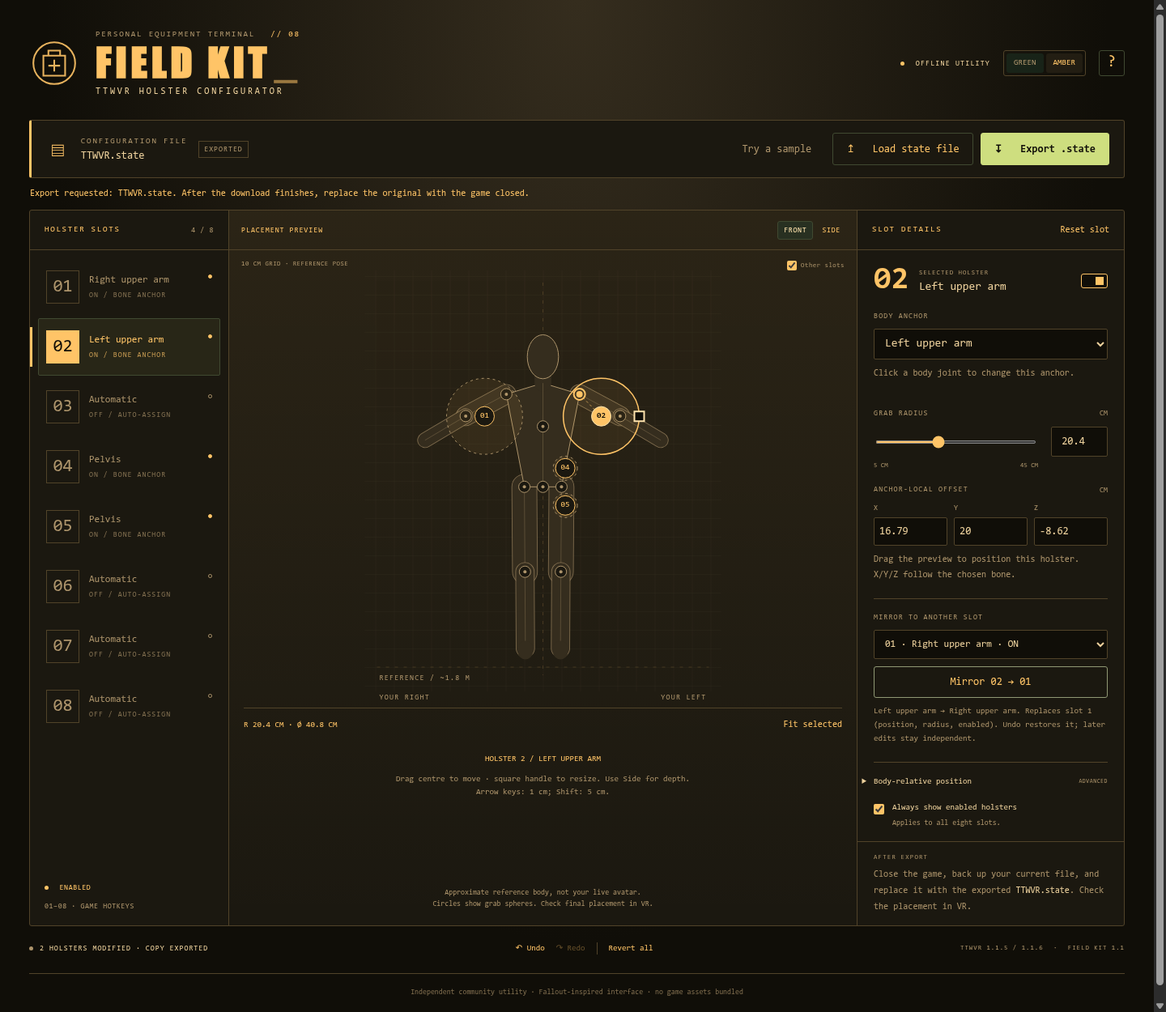
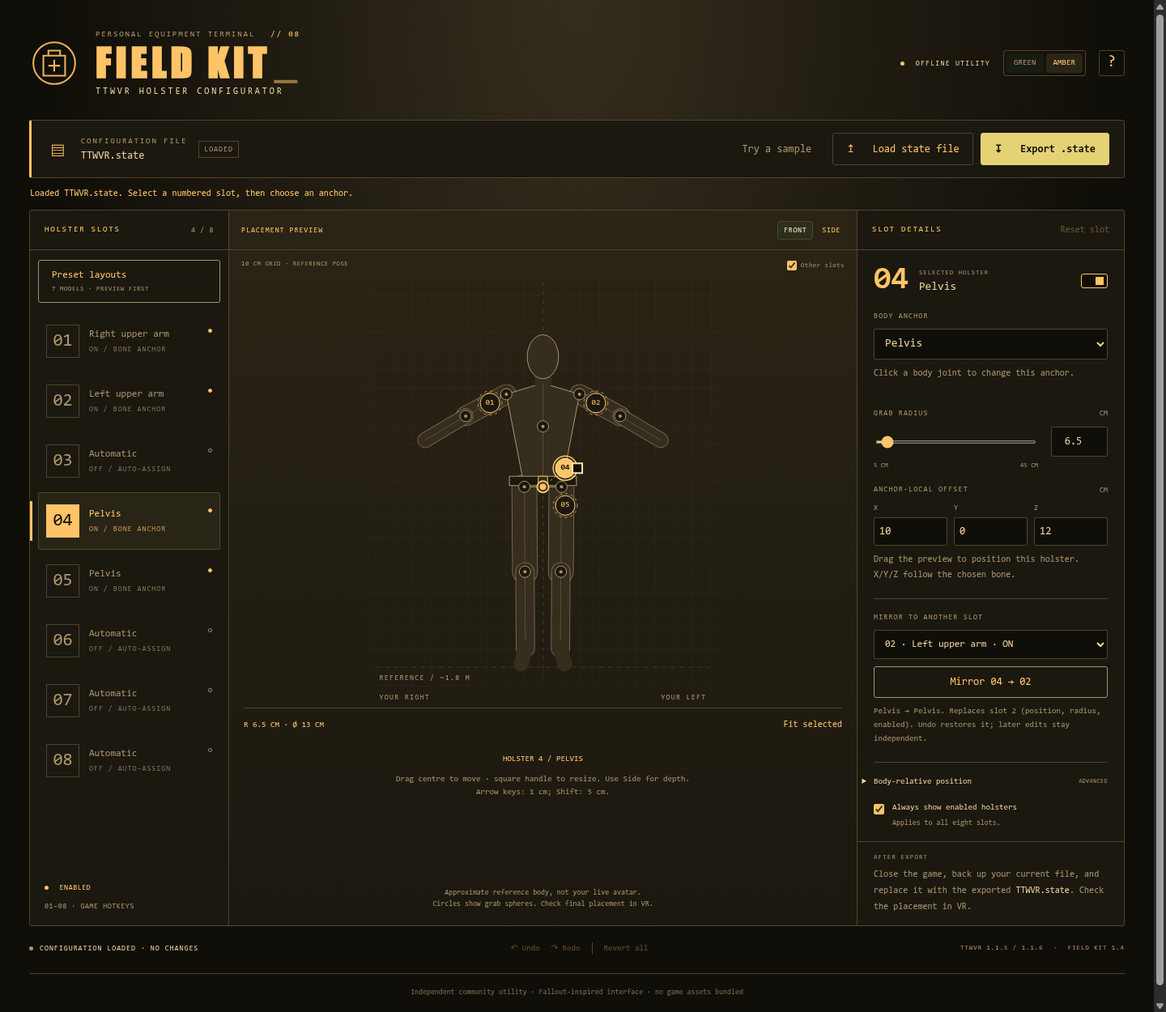
Correct holster front/back mapping and repair existing body layouts

diff --git a/tools/holster-editor/index.html b/tools/holster-editor/index.html
@@ -94,7 +94,7 @@ select{font-size:14px}.slot-label{font-size:12px}.coordinate-row input{font-size
       <div class="apply-note"><span class="eyebrow">AFTER EXPORT</span><p>Close the game, back up your current file, and replace it with the exported <b>TTWVR.state</b>. Check the placement in VR.</p></div>
     </section>
   </main>
-  <footer class="status-bar"><div><span class="status-light" id="status-light"></span><span id="change-status">NO FILE LOADED</span></div><div class="history"><button type="button" id="undo" disabled>↶ Undo</button><button type="button" id="redo" disabled>↷ Redo</button><span class="separator"></span><button type="button" id="revert" disabled>Revert all</button></div><span class="footer-version">TTWVR 1.1.5 / 1.1.6 <span>·</span> FIELD KIT 1.3</span></footer>
+  <footer class="status-bar"><div><span class="status-light" id="status-light"></span><span id="change-status">NO FILE LOADED</span></div><div class="history"><button type="button" id="undo" disabled>↶ Undo</button><button type="button" id="redo" disabled>↷ Redo</button><span class="separator"></span><button type="button" id="revert" disabled>Revert all</button></div><span class="footer-version">TTWVR 1.1.5 / 1.1.6 <span>·</span> FIELD KIT 1.4</span></footer>
   <p class="bottom-note">Independent community utility · Fallout-inspired interface · no game assets bundled</p>
 </div>
 <dialog id="presets" aria-labelledby="presets-title">
@@ -113,7 +113,7 @@ select{font-size:14px}.slot-label{font-size:12px}.coordinate-row input{font-size
   <p class="preset-caveat">Reference pose only: spacing changes as you move. These are starting layouts, not headset-tested fits. Fine-tune with your equipment and wrist Pip-Boy in VR.</p>
   <div class="preset-apply-row"><p id="preset-impact" aria-live="polite"></p><button type="button" id="apply-preset" class="primary" disabled>Apply layout</button></div>
 </dialog>
-<dialog id="instructions"><div class="dialog-heading"><p class="eyebrow">FIELD MANUAL</p><button type="button" id="close-help" class="icon-button" aria-label="Close instructions">×</button></div><h2>Configure. Export. Equip.</h2><ol><li><b>Quit Fallout and your mod manager.</b> This tool edits a copy; the game writes its state when it closes.</li><li><b>Load TTWVR.state.</b> It contains the numbered holsters and their anchors. A savegame or TTWVR.ini is a different file.</li><li><b>Choose a slot and an anchor.</b> Numbers match the game’s 1–8 hotkeys. Drag its numbered centre to position it; drag the square handle to resize its grab sphere. Use Front for left/right and Side for depth. Both views adjust height. Arrow keys move 1 cm (Shift: 5 cm). Numeric controls remain available.</li><li><b>Export the file.</b> Keep a backup of the original and replace it with the downloaded copy. Its filename must be <code>TTWVR.state</code>, without a browser-added “(1)”.</li><li><b>Launch the game and check the fit.</b> The preview uses an approximate reference body and pose. Fine placement depends on your avatar and calibration.</li></ol><h3>Start from a preset</h3><p><b>Preset layouts</b> offers seven belt, vest and holster layouts, from four to eight enabled holsters. Preview both views, choose right/left pair order and optional extra forward reach, then apply. Utility rig puts one forearm target opposite the selected Pip-Boy arm; this remains independent of pair order. One Undo restores your previous layout. Slots outside the chosen layout are disabled while their positions are retained. Visibility, calibration and other state sections stay as loaded. Export and check your reach in VR.</p><h3>Mirror a holster</h3><p>Choose a different destination slot under <b>Mirror to another slot</b>, then press the mirror button. Right upper arm becomes left upper arm, for example, with the matching local offset and grab radius. The destination is replaced in one undoable action. Subsequent edits are independent; this does not link the slots. Automatic slots mirror their saved body-relative position but have no bone preview until you choose an anchor.</p><h3>Where is the file?</h3><p><b>Windows</b> — your Documents folder, which may be redirected to OneDrive:</p><code class="path">My Games\FalloutNV\TTWVR.state</code><p><b>Linux / Proton</b> — inside the prefix used by your VR profile:</p><code class="path">drive_c/users/steamuser/Documents/My Games/FalloutNV/TTWVR.state</code><p>TTWVR stores this configuration in New Vegas’s <code>FalloutNV</code> folder. Place a holster in VR and quit once if the holster sections have not been created yet.</p><h3>What gets edited?</h3><p>Only holster records in <code>[SavedSlots]</code> and <code>[SavedSlotsOn]</code>. Other sections, encoding and line endings are preserved. This does not assign weapons to hotkeys or change a savegame.</p><p><b>Automatic</b> removes an explicit bone binding. TTWVR then chooses a nearby bone from the saved body-relative position. New explicit bindings start at a zero local offset; adjust the offset or finish placement in VR.</p><p class="field-help">Runs entirely offline. No installation, uploads, runtime libraries or network connection required. Original tool code: GPL-3.0-only.</p></dialog>
+<dialog id="instructions"><div class="dialog-heading"><p class="eyebrow">FIELD MANUAL</p><button type="button" id="close-help" class="icon-button" aria-label="Close instructions">×</button></div><h2>Configure. Export. Equip.</h2><ol><li><b>Quit Fallout and your mod manager.</b> This tool edits a copy; the game writes its state when it closes.</li><li><b>Load TTWVR.state.</b> It contains the numbered holsters and their anchors. A savegame or TTWVR.ini is a different file.</li><li><b>Choose a slot and an anchor.</b> Numbers match the game’s 1–8 hotkeys. Drag its numbered centre to position it; drag the square handle to resize its grab sphere. Use Front for left/right and Side for depth. Both views adjust height. Arrow keys move 1 cm (Shift: 5 cm). Numeric controls remain available.</li><li><b>Export the file.</b> Keep a backup of the original and replace it with the downloaded copy. Its filename must be <code>TTWVR.state</code>, without a browser-added “(1)”.</li><li><b>Launch the game and check the fit.</b> The preview uses an approximate reference body and pose. Fine placement depends on your avatar and calibration.</li></ol><h3>Start from a preset</h3><p><b>Preset layouts</b> offers seven belt, vest and holster layouts, from four to eight enabled holsters. Preview both views, choose right/left pair order and optional extra forward reach, then apply. Utility rig puts one forearm target opposite the selected Pip-Boy arm; this remains independent of pair order. One Undo restores your previous layout. Slots outside the chosen layout are disabled while their positions are retained. Visibility, calibration and other state sections stay as loaded. Export and check your reach in VR.</p><h3>Body holsters behind you?</h3><p>Field Kit 1.1–1.3 reversed front and back in the preview. If you exported body placements with those versions, this moves centres behind the reference body to the front. It affects pelvis, chest and leg anchors, including disabled slots; arms and Automatic slots stay unchanged. Intentionally rear-mounted body holsters would also move. Review the Side view, then export. One Undo restores the layout. Loading a file never repairs it automatically.</p><button type="button" id="repair-body" disabled>Repair old body placement</button><h3>Mirror a holster</h3><p>Choose a different destination slot under <b>Mirror to another slot</b>, then press the mirror button. Right upper arm becomes left upper arm, for example, with the matching local offset and grab radius. The destination is replaced in one undoable action. Subsequent edits are independent; this does not link the slots. Automatic slots mirror their saved body-relative position but have no bone preview until you choose an anchor.</p><h3>Where is the file?</h3><p><b>Windows</b> — your Documents folder, which may be redirected to OneDrive:</p><code class="path">My Games\FalloutNV\TTWVR.state</code><p><b>Linux / Proton</b> — inside the prefix used by your VR profile:</p><code class="path">drive_c/users/steamuser/Documents/My Games/FalloutNV/TTWVR.state</code><p>TTWVR stores this configuration in New Vegas’s <code>FalloutNV</code> folder. Place a holster in VR and quit once if the holster sections have not been created yet.</p><h3>What gets edited?</h3><p>Only holster records in <code>[SavedSlots]</code> and <code>[SavedSlotsOn]</code>. Other sections, encoding and line endings are preserved. This does not assign weapons to hotkeys or change a savegame.</p><p><b>Automatic</b> removes an explicit bone binding. TTWVR then chooses a nearby bone from the saved body-relative position. New explicit bindings start at a zero local offset; adjust the offset or finish placement in VR.</p><p class="field-help">Runs entirely offline. No installation, uploads, runtime libraries or network connection required. Original tool code: GPL-3.0-only.</p></dialog>
 <script>/* SPDX-License-Identifier: GPL-3.0-only */
 /* Lossless TTWVR 1.1.5/1.1.6 state editor. No filesystem or network access. */
 (function (root) {
@@ -318,7 +318,7 @@ select{font-size:14px}.slot-label{font-size:12px}.coordinate-row input{font-size
 </script>
 <script>/* SPDX-License-Identifier: GPL-3.0-only */
 // Reference coordinates: right, back, up (metres). Orthographic views, no perspective.
-// Frame orientation checked against TTWVR 1.1.6's supplied skeleton. See FORMAT.md.
+// Source skeleton is right, FORWARD, up; convert its world basis below. See FORMAT.md.
 (function (root, factory) {
   const api = factory();
   if (typeof module === 'object' && module.exports) module.exports = api;
@@ -451,6 +451,7 @@ select{font-size:14px}.slot-label{font-size:12px}.coordinate-row input{font-size
     -0.0032341,
     1.2184703
   ],
+  "right_toe": [0.1168718, 0.1371308, 0.0169413],
   "right_foot": [
     0.0942197,
     -0.0290597,
@@ -475,8 +476,17 @@ select{font-size:14px}.slot-label{font-size:12px}.coordinate-row input{font-size
       frames[opposite(key)] = {origin: reflect(f.origin), rotation: f.rotation.map((v,i) => v * (i < 3 ? -1 : 1) * (i % 3 === 2 ? -1 : 1))};
     }
   }
-  for (const [key, f] of Object.entries(frames)) joints[key] = f.origin;
-  for (const key of ['right_hand', 'right_foot']) joints[opposite(key)] = reflect(joints[key]);
+  // NIF +Y points toward the toes. The UI uses +Y for BACK, so reflect the
+  // world basis AFTER orthonormalizing the source frames. This changes their
+  // determinant, not their inverse (transpose). Never reflect bone-local Y.
+  const toPreview = p => [p[0], -p[1], p[2]];
+  for (const [key, p] of Object.entries(joints)) joints[key] = toPreview(p);
+  for (const [key, f] of Object.entries(frames)) {
+    f.origin = toPreview(f.origin);
+    f.rotation = f.rotation.map((v, i) => i >= 3 && i < 6 ? -v : v);
+    joints[key] = f.origin;
+  }
+  for (const key of ['right_hand', 'right_foot', 'right_toe']) joints[opposite(key)] = reflect(joints[key]);
   function world(slot) {
     const f = frames[slot.anchor]; if (!f) return null;
     return multiply(f.rotation, slot.offset).map((v,i) => v + f.origin[i]);
@@ -496,9 +506,18 @@ select{font-size:14px}.slot-label{font-size:12px}.coordinate-row input{font-size
     // Bilateral bone frames mirror local Z, NOT local X. Central anchors also use Z laterally.
     return {...slot, id: targetId, anchor: opposite(slot.anchor), offset: slot.anchor === 'auto' ? [0,0,0] : [slot.offset[0],slot.offset[1],-slot.offset[2]], position: [slot.position[0],-slot.position[1],slot.position[2]]};
   }
+  function repairBodyPlacement(slot) {
+    // Explicit recovery for pre-1.4 editor exports. Leave arms and Automatic
+    // untouched. Only move centres behind the reference body's centre plane;
+    // repeating this operation therefore cannot send a repaired slot back.
+    if (!['pelvis','chest','left_thigh','right_thigh','left_shin','right_shin'].includes(slot.anchor)) return slot;
+    const p = world(slot);
+    if (p[1] <= 1e-6) return slot;
+    return {...slot, offset: local(slot.anchor, [p[0], -p[1], p[2]])};
+  }
   const SCALE = 230;
   const project = (p, view = 'front') => [220 - p[view === 'side' ? 1 : 0] * SCALE, 490 - p[2] * SCALE];
-  return {frames, joints, world, local, move, mirror, opposite, reflect, project, SCALE};
+  return {frames, joints, world, local, move, mirror, opposite, reflect, repairBodyPlacement, project, SCALE};
 });
 </script>
 <script>/* SPDX-License-Identifier: GPL-3.0-only */
@@ -668,6 +687,9 @@ select{font-size:14px}.slot-label{font-size:12px}.coordinate-row input{font-size
     const count = changedCount(), changed = model && !H.same(model, doc.original);
     $('export').disabled = !doc || demoMode || !!errors.size;
     $('mirror-slot').disabled = !doc || !!errors.size;
+    const repairCount = model?.slots.filter(s => G.repairBodyPlacement(s) !== s).length || 0;
+    $('repair-body').disabled = !repairCount || !!errors.size;
+    $('repair-body').textContent = `Repair old body placement${repairCount ? ` (${repairCount} slots)` : ''}`;
     $('export').title = demoMode ? 'Load your own state file to export changes' : 'Download a copy of TTWVR.state';
     $('undo').disabled = historyIndex <= 0; $('redo').disabled = historyIndex >= history.length - 1;
     $('revert').disabled = !changed && !errors.size;
@@ -748,7 +770,7 @@ select{font-size:14px}.slot-label{font-size:12px}.coordinate-row input{font-size
       limb(`${side}_shin`,`${side}_foot`,.095);
       limb(`${side}_upper_arm`,`${side}_forearm`,.10);
       limb(`${side}_forearm`,`${side}_hand`,.075);
-      const foot = j[`${side}_foot`]; path([foot,[foot[0],foot[1]-.12,foot[2]-.02]],.08,'body-limb');
+      path([j[`${side}_foot`],j[`${side}_toe`]],.08,'body-limb');
     }
     if (projection === 'front') {
       const torso = ['right_upper_arm','chest','left_upper_arm','left_thigh','pelvis','right_thigh'].map(k=>j[k]);
@@ -991,6 +1013,13 @@ select{font-size:14px}.slot-label{font-size:12px}.coordinate-row input{font-size
     try { localStorage.setItem('ttwvr-holster-theme', color); } catch { /* File URLs may disallow storage. */ }
   });
   try { if (localStorage.getItem('ttwvr-holster-theme') === 'amber') $('amber').click(); } catch { /* optional preference */ }
+  $('repair-body').addEventListener('click', () => {
+    if (!doc || errors.size) return;
+    let count = 0;
+    commit(m => { m.slots = m.slots.map(s => { const fixed = G.repairBodyPlacement(s); if (fixed !== s) count++; return fixed; }); });
+    $('instructions').close(); $('view-side').click();
+    notify(`Moved ${count} body holster${count === 1 ? '' : 's'} from behind to in front of the reference body. Arm placements are unchanged. Review, then export; Undo restores the layout.`, 'success');
+  });
   $('help').addEventListener('click', () => $('instructions').showModal());
   $('close-help').addEventListener('click', () => $('instructions').close());
   $('instructions').addEventListener('click', e => { if (e.target === $('instructions')) {

diff --git a/tools/holster-editor/src/shell.html b/tools/holster-editor/src/shell.html
@@ -69,7 +69,7 @@
       <div class="apply-note"><span class="eyebrow">AFTER EXPORT</span><p>Close the game, back up your current file, and replace it with the exported <b>TTWVR.state</b>. Check the placement in VR.</p></div>
     </section>
   </main>
-  <footer class="status-bar"><div><span class="status-light" id="status-light"></span><span id="change-status">NO FILE LOADED</span></div><div class="history"><button type="button" id="undo" disabled>↶ Undo</button><button type="button" id="redo" disabled>↷ Redo</button><span class="separator"></span><button type="button" id="revert" disabled>Revert all</button></div><span class="footer-version">TTWVR 1.1.5 / 1.1.6 <span>·</span> FIELD KIT 1.3</span></footer>
+  <footer class="status-bar"><div><span class="status-light" id="status-light"></span><span id="change-status">NO FILE LOADED</span></div><div class="history"><button type="button" id="undo" disabled>↶ Undo</button><button type="button" id="redo" disabled>↷ Redo</button><span class="separator"></span><button type="button" id="revert" disabled>Revert all</button></div><span class="footer-version">TTWVR 1.1.5 / 1.1.6 <span>·</span> FIELD KIT 1.4</span></footer>
   <p class="bottom-note">Independent community utility · Fallout-inspired interface · no game assets bundled</p>
 </div>
 <dialog id="presets" aria-labelledby="presets-title">
@@ -88,7 +88,7 @@
   <p class="preset-caveat">Reference pose only: spacing changes as you move. These are starting layouts, not headset-tested fits. Fine-tune with your equipment and wrist Pip-Boy in VR.</p>
   <div class="preset-apply-row"><p id="preset-impact" aria-live="polite"></p><button type="button" id="apply-preset" class="primary" disabled>Apply layout</button></div>
 </dialog>
-<dialog id="instructions"><div class="dialog-heading"><p class="eyebrow">FIELD MANUAL</p><button type="button" id="close-help" class="icon-button" aria-label="Close instructions">×</button></div><h2>Configure. Export. Equip.</h2><ol><li><b>Quit Fallout and your mod manager.</b> This tool edits a copy; the game writes its state when it closes.</li><li><b>Load TTWVR.state.</b> It contains the numbered holsters and their anchors. A savegame or TTWVR.ini is a different file.</li><li><b>Choose a slot and an anchor.</b> Numbers match the game’s 1–8 hotkeys. Drag its numbered centre to position it; drag the square handle to resize its grab sphere. Use Front for left/right and Side for depth. Both views adjust height. Arrow keys move 1 cm (Shift: 5 cm). Numeric controls remain available.</li><li><b>Export the file.</b> Keep a backup of the original and replace it with the downloaded copy. Its filename must be <code>TTWVR.state</code>, without a browser-added “(1)”.</li><li><b>Launch the game and check the fit.</b> The preview uses an approximate reference body and pose. Fine placement depends on your avatar and calibration.</li></ol><h3>Start from a preset</h3><p><b>Preset layouts</b> offers seven belt, vest and holster layouts, from four to eight enabled holsters. Preview both views, choose right/left pair order and optional extra forward reach, then apply. Utility rig puts one forearm target opposite the selected Pip-Boy arm; this remains independent of pair order. One Undo restores your previous layout. Slots outside the chosen layout are disabled while their positions are retained. Visibility, calibration and other state sections stay as loaded. Export and check your reach in VR.</p><h3>Mirror a holster</h3><p>Choose a different destination slot under <b>Mirror to another slot</b>, then press the mirror button. Right upper arm becomes left upper arm, for example, with the matching local offset and grab radius. The destination is replaced in one undoable action. Subsequent edits are independent; this does not link the slots. Automatic slots mirror their saved body-relative position but have no bone preview until you choose an anchor.</p><h3>Where is the file?</h3><p><b>Windows</b> — your Documents folder, which may be redirected to OneDrive:</p><code class="path">My Games\FalloutNV\TTWVR.state</code><p><b>Linux / Proton</b> — inside the prefix used by your VR profile:</p><code class="path">drive_c/users/steamuser/Documents/My Games/FalloutNV/TTWVR.state</code><p>TTWVR stores this configuration in New Vegas’s <code>FalloutNV</code> folder. Place a holster in VR and quit once if the holster sections have not been created yet.</p><h3>What gets edited?</h3><p>Only holster records in <code>[SavedSlots]</code> and <code>[SavedSlotsOn]</code>. Other sections, encoding and line endings are preserved. This does not assign weapons to hotkeys or change a savegame.</p><p><b>Automatic</b> removes an explicit bone binding. TTWVR then chooses a nearby bone from the saved body-relative position. New explicit bindings start at a zero local offset; adjust the offset or finish placement in VR.</p><p class="field-help">Runs entirely offline. No installation, uploads, runtime libraries or network connection required. Original tool code: GPL-3.0-only.</p></dialog>
+<dialog id="instructions"><div class="dialog-heading"><p class="eyebrow">FIELD MANUAL</p><button type="button" id="close-help" class="icon-button" aria-label="Close instructions">×</button></div><h2>Configure. Export. Equip.</h2><ol><li><b>Quit Fallout and your mod manager.</b> This tool edits a copy; the game writes its state when it closes.</li><li><b>Load TTWVR.state.</b> It contains the numbered holsters and their anchors. A savegame or TTWVR.ini is a different file.</li><li><b>Choose a slot and an anchor.</b> Numbers match the game’s 1–8 hotkeys. Drag its numbered centre to position it; drag the square handle to resize its grab sphere. Use Front for left/right and Side for depth. Both views adjust height. Arrow keys move 1 cm (Shift: 5 cm). Numeric controls remain available.</li><li><b>Export the file.</b> Keep a backup of the original and replace it with the downloaded copy. Its filename must be <code>TTWVR.state</code>, without a browser-added “(1)”.</li><li><b>Launch the game and check the fit.</b> The preview uses an approximate reference body and pose. Fine placement depends on your avatar and calibration.</li></ol><h3>Start from a preset</h3><p><b>Preset layouts</b> offers seven belt, vest and holster layouts, from four to eight enabled holsters. Preview both views, choose right/left pair order and optional extra forward reach, then apply. Utility rig puts one forearm target opposite the selected Pip-Boy arm; this remains independent of pair order. One Undo restores your previous layout. Slots outside the chosen layout are disabled while their positions are retained. Visibility, calibration and other state sections stay as loaded. Export and check your reach in VR.</p><h3>Body holsters behind you?</h3><p>Field Kit 1.1–1.3 reversed front and back in the preview. If you exported body placements with those versions, this moves centres behind the reference body to the front. It affects pelvis, chest and leg anchors, including disabled slots; arms and Automatic slots stay unchanged. Intentionally rear-mounted body holsters would also move. Review the Side view, then export. One Undo restores the layout. Loading a file never repairs it automatically.</p><button type="button" id="repair-body" disabled>Repair old body placement</button><h3>Mirror a holster</h3><p>Choose a different destination slot under <b>Mirror to another slot</b>, then press the mirror button. Right upper arm becomes left upper arm, for example, with the matching local offset and grab radius. The destination is replaced in one undoable action. Subsequent edits are independent; this does not link the slots. Automatic slots mirror their saved body-relative position but have no bone preview until you choose an anchor.</p><h3>Where is the file?</h3><p><b>Windows</b> — your Documents folder, which may be redirected to OneDrive:</p><code class="path">My Games\FalloutNV\TTWVR.state</code><p><b>Linux / Proton</b> — inside the prefix used by your VR profile:</p><code class="path">drive_c/users/steamuser/Documents/My Games/FalloutNV/TTWVR.state</code><p>TTWVR stores this configuration in New Vegas’s <code>FalloutNV</code> folder. Place a holster in VR and quit once if the holster sections have not been created yet.</p><h3>What gets edited?</h3><p>Only holster records in <code>[SavedSlots]</code> and <code>[SavedSlotsOn]</code>. Other sections, encoding and line endings are preserved. This does not assign weapons to hotkeys or change a savegame.</p><p><b>Automatic</b> removes an explicit bone binding. TTWVR then chooses a nearby bone from the saved body-relative position. New explicit bindings start at a zero local offset; adjust the offset or finish placement in VR.</p><p class="field-help">Runs entirely offline. No installation, uploads, runtime libraries or network connection required. Original tool code: GPL-3.0-only.</p></dialog>
 <script>{{STATE}}</script>
 <script>{{GEOMETRY}}</script>
 <script>{{PRESETS}}</script>

diff --git a/tools/holster-editor/src/geometry.js b/tools/holster-editor/src/geometry.js
@@ -1,6 +1,6 @@
 /* SPDX-License-Identifier: GPL-3.0-only */
 // Reference coordinates: right, back, up (metres). Orthographic views, no perspective.
-// Frame orientation checked against TTWVR 1.1.6's supplied skeleton. See FORMAT.md.
+// Source skeleton is right, FORWARD, up; convert its world basis below. See FORMAT.md.
 (function (root, factory) {
   const api = factory();
   if (typeof module === 'object' && module.exports) module.exports = api;
@@ -133,6 +133,7 @@
     -0.0032341,
     1.2184703
   ],
+  "right_toe": [0.1168718, 0.1371308, 0.0169413],
   "right_foot": [
     0.0942197,
     -0.0290597,
@@ -157,8 +158,17 @@
       frames[opposite(key)] = {origin: reflect(f.origin), rotation: f.rotation.map((v,i) => v * (i < 3 ? -1 : 1) * (i % 3 === 2 ? -1 : 1))};
     }
   }
-  for (const [key, f] of Object.entries(frames)) joints[key] = f.origin;
-  for (const key of ['right_hand', 'right_foot']) joints[opposite(key)] = reflect(joints[key]);
+  // NIF +Y points toward the toes. The UI uses +Y for BACK, so reflect the
+  // world basis AFTER orthonormalizing the source frames. This changes their
+  // determinant, not their inverse (transpose). Never reflect bone-local Y.
+  const toPreview = p => [p[0], -p[1], p[2]];
+  for (const [key, p] of Object.entries(joints)) joints[key] = toPreview(p);
+  for (const [key, f] of Object.entries(frames)) {
+    f.origin = toPreview(f.origin);
+    f.rotation = f.rotation.map((v, i) => i >= 3 && i < 6 ? -v : v);
+    joints[key] = f.origin;
+  }
+  for (const key of ['right_hand', 'right_foot', 'right_toe']) joints[opposite(key)] = reflect(joints[key]);
   function world(slot) {
     const f = frames[slot.anchor]; if (!f) return null;
     return multiply(f.rotation, slot.offset).map((v,i) => v + f.origin[i]);
@@ -178,7 +188,16 @@
     // Bilateral bone frames mirror local Z, NOT local X. Central anchors also use Z laterally.
     return {...slot, id: targetId, anchor: opposite(slot.anchor), offset: slot.anchor === 'auto' ? [0,0,0] : [slot.offset[0],slot.offset[1],-slot.offset[2]], position: [slot.position[0],-slot.position[1],slot.position[2]]};
   }
+  function repairBodyPlacement(slot) {
+    // Explicit recovery for pre-1.4 editor exports. Leave arms and Automatic
+    // untouched. Only move centres behind the reference body's centre plane;
+    // repeating this operation therefore cannot send a repaired slot back.
+    if (!['pelvis','chest','left_thigh','right_thigh','left_shin','right_shin'].includes(slot.anchor)) return slot;
+    const p = world(slot);
+    if (p[1] <= 1e-6) return slot;
+    return {...slot, offset: local(slot.anchor, [p[0], -p[1], p[2]])};
+  }
   const SCALE = 230;
   const project = (p, view = 'front') => [220 - p[view === 'side' ? 1 : 0] * SCALE, 490 - p[2] * SCALE];
-  return {frames, joints, world, local, move, mirror, opposite, reflect, project, SCALE};
+  return {frames, joints, world, local, move, mirror, opposite, reflect, repairBodyPlacement, project, SCALE};
 });

diff --git a/tools/holster-editor/src/app.js b/tools/holster-editor/src/app.js
@@ -79,6 +79,9 @@
     const count = changedCount(), changed = model && !H.same(model, doc.original);
     $('export').disabled = !doc || demoMode || !!errors.size;
     $('mirror-slot').disabled = !doc || !!errors.size;
+    const repairCount = model?.slots.filter(s => G.repairBodyPlacement(s) !== s).length || 0;
+    $('repair-body').disabled = !repairCount || !!errors.size;
+    $('repair-body').textContent = `Repair old body placement${repairCount ? ` (${repairCount} slots)` : ''}`;
     $('export').title = demoMode ? 'Load your own state file to export changes' : 'Download a copy of TTWVR.state';
     $('undo').disabled = historyIndex <= 0; $('redo').disabled = historyIndex >= history.length - 1;
     $('revert').disabled = !changed && !errors.size;
@@ -159,7 +162,7 @@
       limb(`${side}_shin`,`${side}_foot`,.095);
       limb(`${side}_upper_arm`,`${side}_forearm`,.10);
       limb(`${side}_forearm`,`${side}_hand`,.075);
-      const foot = j[`${side}_foot`]; path([foot,[foot[0],foot[1]-.12,foot[2]-.02]],.08,'body-limb');
+      path([j[`${side}_foot`],j[`${side}_toe`]],.08,'body-limb');
     }
     if (projection === 'front') {
       const torso = ['right_upper_arm','chest','left_upper_arm','left_thigh','pelvis','right_thigh'].map(k=>j[k]);
@@ -402,6 +405,13 @@
     try { localStorage.setItem('ttwvr-holster-theme', color); } catch { /* File URLs may disallow storage. */ }
   });
   try { if (localStorage.getItem('ttwvr-holster-theme') === 'amber') $('amber').click(); } catch { /* optional preference */ }
+  $('repair-body').addEventListener('click', () => {
+    if (!doc || errors.size) return;
+    let count = 0;
+    commit(m => { m.slots = m.slots.map(s => { const fixed = G.repairBodyPlacement(s); if (fixed !== s) count++; return fixed; }); });
+    $('instructions').close(); $('view-side').click();
+    notify(`Moved ${count} body holster${count === 1 ? '' : 's'} from behind to in front of the reference body. Arm placements are unchanged. Review, then export; Undo restores the layout.`, 'success');
+  });
   $('help').addEventListener('click', () => $('instructions').showModal());
   $('close-help').addEventListener('click', () => $('instructions').close());
   $('instructions').addEventListener('click', e => { if (e.target === $('instructions')) {

diff --git a/tools/holster-editor/FORMAT.md b/tools/holster-editor/FORMAT.md
@@ -69,7 +69,41 @@ unsupported anchors, incomplete slot data and non-finite numbers are rejected.
 An existing radius outside the mod's range is preserved on an unedited round-trip;
 any radius edit must fall within the verified range.
 
-## Gear-style preset profiles, Field Kit 1.3
+## Front/back correction, Field Kit 1.4
+
+Field Kit 1.1–1.3 used the supplied skeleton's world Y as the editor's **back**
+coordinate. This was incorrect: the skeleton is right/**forward**/up. Both toes
+extend roughly 11.63 skeleton units in positive Y from the feet. The corrected
+editor applies `B = diag(1,-1,1)` to reference origins and rotation rows after
+orthonormalizing the native frames. The resulting preview matrices are orthogonal
+with determinant -1; transpose remains their inverse. Local offsets do not change
+merely by loading a file. Sideways mirroring still reflects local Z.
+
+[Independent direction fixture](tests/direction-fixture.json) records both foot/toe
+positions from the original skeleton and one gameplay pelvis rotation with relative
+foot-to-toe vectors. Across 194 body-ready samples from the reported session, the
+horizontal toe heading agrees with pelvis local +Y: minimum dot 0.8661, median
+0.9975, maximum nearly 1. The old front pouch's local Y was -0.2493891 m, placing
+it behind the pelvis. This evidence establishes the direction, independently of
+the editor's projection math. It does not establish comfort or every live pose.
+
+**Repair old body placement** is explicit and undoable. For pelvis/chest/leg
+slots whose corrected preview centre has positive back, reflect that centre's
+back coordinate, then transform it into the same bone's local frame. This retains
+the old intended preview position and handles tilted bones and nonzero origins;
+it is not a local-Y sign flip. Arms and Automatic slots are untouched. Radii,
+enabled/visibility flags, fallback positions and other state remain unchanged.
+A repaired centre cannot be repaired back to the rear. No automatic migration is
+performed because state files do not record which editor version produced them,
+and deliberately rear-mounted holsters must remain valid.
+
+Regression coverage includes independent direction evidence, actual old belt/thigh
+offsets, tilted chest/shin repair, arm preservation, repeat safety, UTF export,
+and browser download/undo/redo. The earlier loader readback below verifies the
+state format, not the old preview's incorrect direction. Physical fit after this
+correction still needs a headset check.
+
+## Gear-style preset profiles, Field Kit 1.4
 
 `src/presets.js` defines target centres in reference right/back/up centimetres.
 The waist layouts use four points at 1.00 m reference height: front pouches at
@@ -88,7 +122,7 @@ The Pip-Boy selector affects preset placement only, not the actual wrist setting
 
 A single forward plane is inappropriate for real side belt holsters. Regression
 checks instead use a conservative reference torso cylinder with elliptical
-cross-section (right radius 0.18 m, depth radius 0.115 m, centred at back 0.01 m,
+cross-section (right radius 0.18 m, depth radius 0.115 m, centred at back -0.01 m,
 height interval 0.90–1.48 m), plus capsule limbs following the reference joints.
 Every preset sphere clears those proxy volumes by over 1 cm across both paired
 slot orders, all three forward-spacing choices and both Pip-Boy sides. The
@@ -100,7 +134,7 @@ Apply replaces anchors, offsets, radii and enabled flags in chosen slots. Others
 are disabled with their placements retained. Saved fallbacks, global visibility,
 calibration and unrelated state remain unchanged. No item binding is inferred.
 
-Validation: 39 Node tests, including nine profile tests and 84 preset variants.
+Validation: 43 Node tests, including nine profile tests and 84 preset variants.
 Checks cover belt arc/height, torso usage, sphere spacing, proxy body clearance,
 pair order, independent Pip-Boy reservation, input immutability and UTF-8/UTF-16
 exports. Chromium checks preview/cancel, actual utility-profile downloads with

diff --git a/tools/holster-editor/README.md b/tools/holster-editor/README.md
@@ -28,7 +28,23 @@ extension. The file contains all scripts, styles and artwork.
 **Try a sample** demonstrates the controls. Load your own file to enable export.
 The tool never overwrites game files directly.
 
-## Preset layouts — Field Kit 1.3
+## Fix placements from Field Kit 1.1–1.3
+
+**Field Kit 1.4 corrects reversed front/back positioning in the editor.** Earlier
+previews and presets could place a sphere behind you while showing it in front.
+The forward direction is now checked against skeleton toes and recorded gameplay.
+
+To retain a customized layout, load it in the updated editor, open **Help**, and
+choose **Repair old body placement**. It moves body-anchored centres behind the
+reference body to the front, preserving their sideways position, height and radius.
+This includes pelvis, chest, thigh and shin anchors, even disabled slots. It leaves
+arm anchors, Automatic slots, fallbacks, calibration and other state untouched.
+Intentionally rear-mounted body holsters would also move; inspect **Side** and use
+**Undo** if needed. Loading a file never changes it automatically. Repeating the
+repair cannot flip a repaired sphere back. Export, back up and replace the state
+with the game closed, then check the fit in VR. Alternatively, apply a fresh preset.
+
+## Preset layouts — Field Kit 1.4
 
 Open **Preset layouts** above the slot list. The presets now follow wearable
 gear positions: a belt around the waist, hip holsters, chest and vest pockets,

diff --git a/CHANGELOG.md b/CHANGELOG.md
@@ -1,5 +1,11 @@
 # Changes
 
+## Holster front/back correction — 2026-11-15
+
+- Correct the editor’s reference-world Y direction in Field Kit 1.4. Earlier previews and presets could place front body holsters behind the player. Skeleton toes and recorded gameplay establish the forward direction.
+- Add an explicit, undoable body-placement repair under Help. Preserve arm holsters, radii, toggles, fallback positions and unrelated state; never auto-migrate a loaded file.
+- Cover the reported offsets, independent orientation evidence, tilted bones, repeat safety, preserved state and real browser repair/export/undo. Rebuild the standalone HTML and portable ZIP. Physical fit still needs a headset check.
+
 ## Belt, vest and realistic holster layouts — 2026-11-15
 
 - Replace the limb-heavy preset collection with seven gear-style layouts. Default to four belt positions and four torso pockets; add a visible belt reference and front-pouch/side-hip placement.
